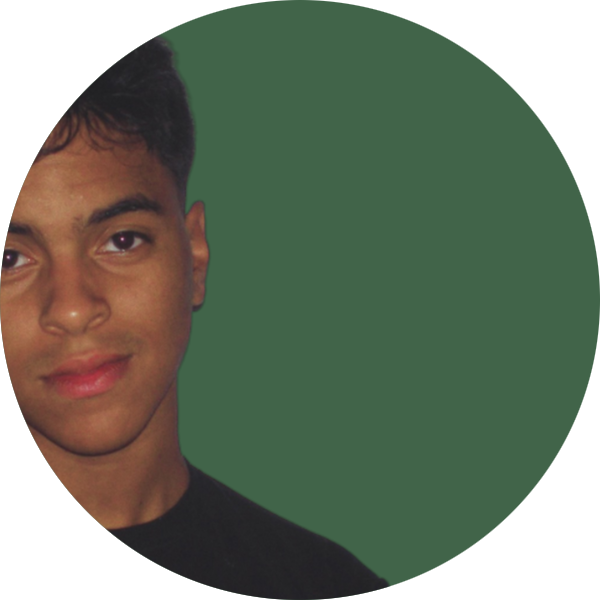
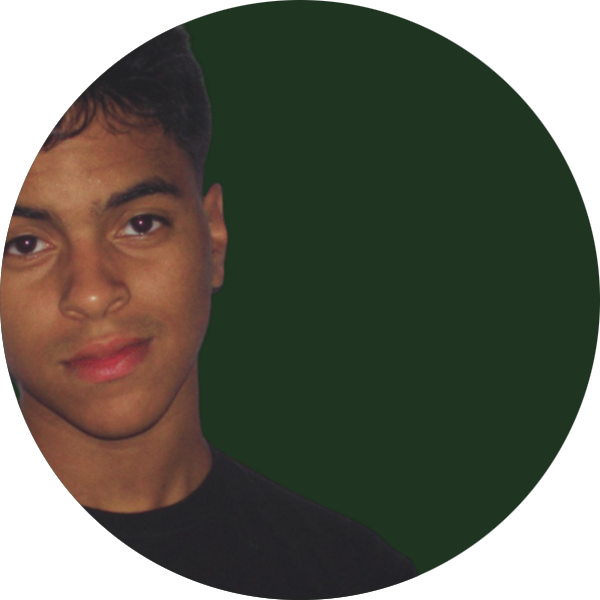
profile changes

diff --git a/index.html b/index.html
@@ -15,7 +15,7 @@
   <body>
     <div id="container">
       <div id="profile">
-        <img src="./assets/profile-dark.png"/>
+        <img src="./assets/profile-light.png"/>
           
         <p>@natanferrugem</p>
       </div>
